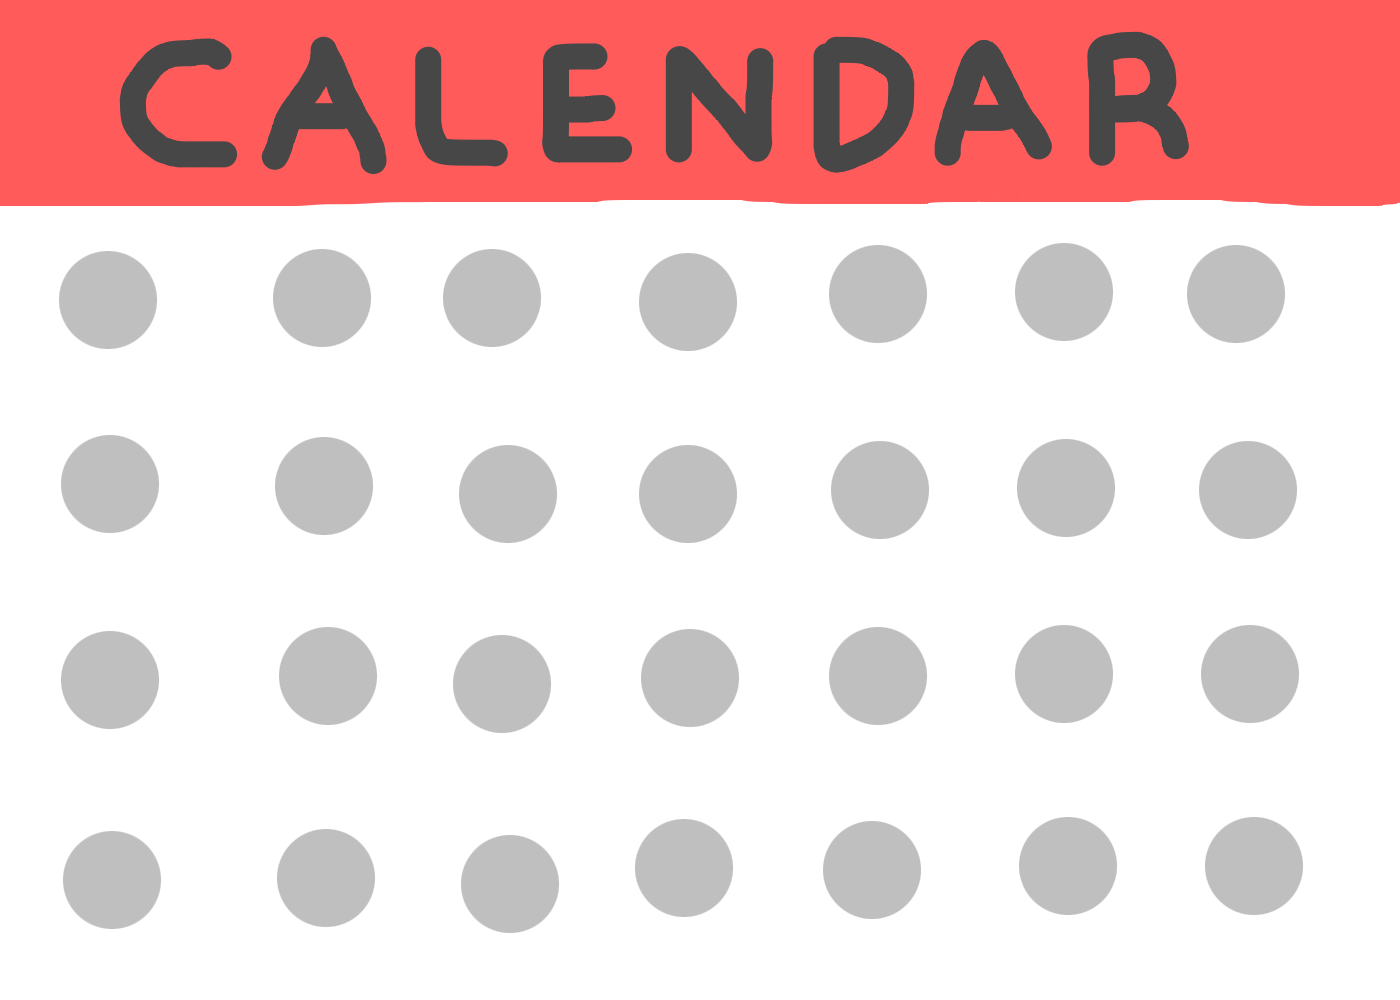
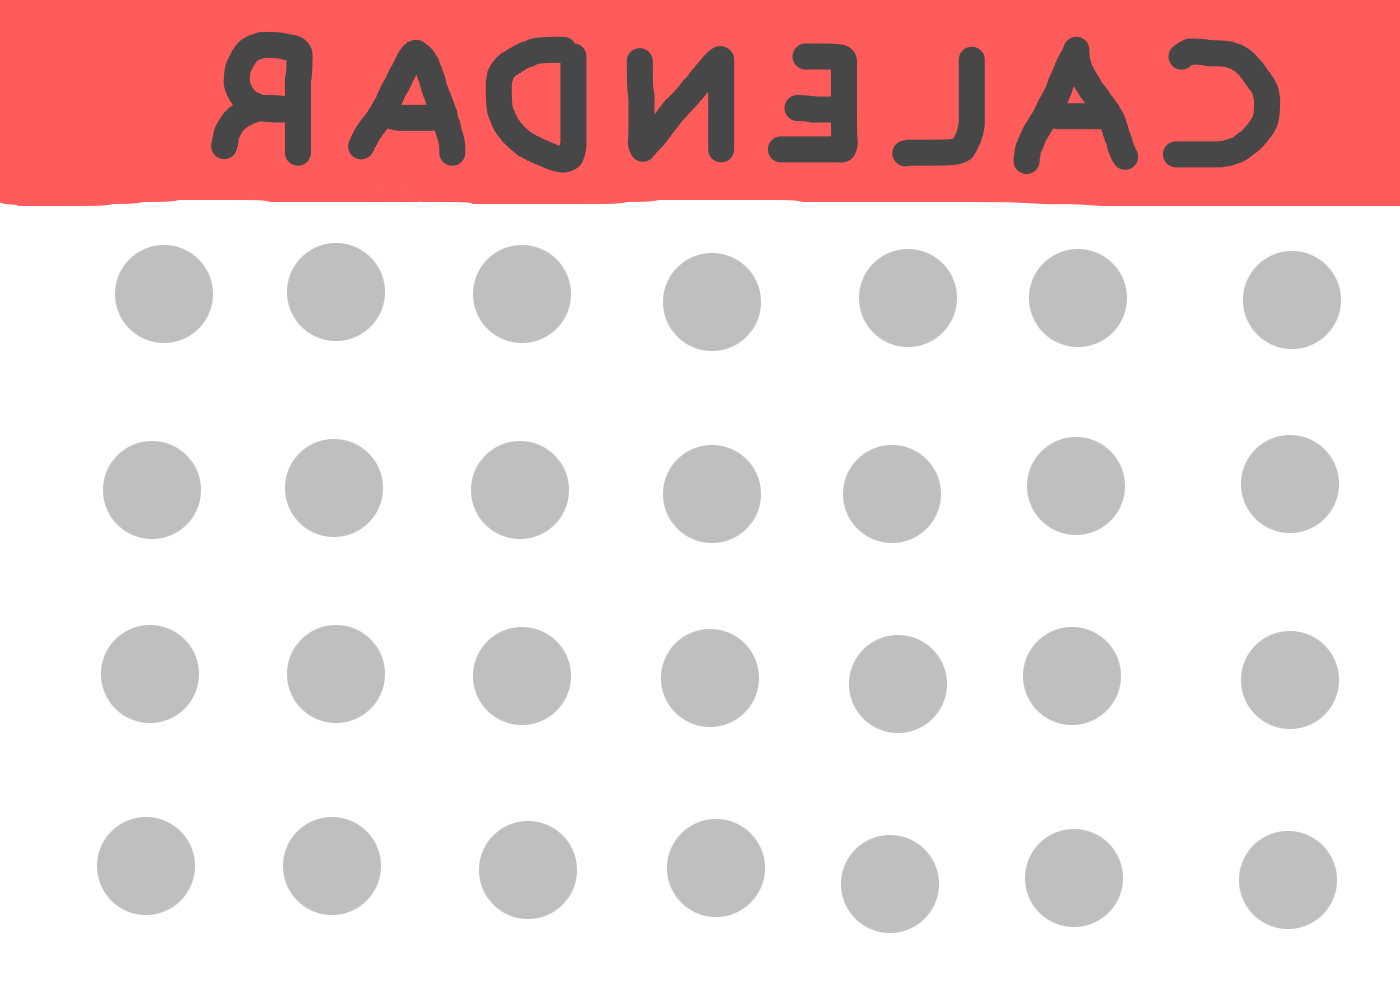
Improved office

diff --git a/levels/generators/office.py b/levels/generators/office.py
@@ -10,15 +10,30 @@ from levels.interactable import Interactable
 from levels.functions.imports import *
 from helper.transforms import connect
 
+def generate_chain(level: Level, positions: list[glm.vec3]) -> list[bsk.Node]:
+    positions = [glm.vec3(p) for p in positions]
+    nodes = []
+    for i in range(len(positions) - 1):
+        pos, sca, rot = connect(positions[i], positions[i + 1])
+        nodes.append(bsk.Node(
+            position = pos,
+            scale = sca,
+            rotation = rot,
+            material = level.game.materials['black']
+        ))
+    return nodes
+
 def office(game: Game) -> Level:
     # create basic layout for bedroom level
-    office = Level(game)
+    office = Level(game, 'office', glm.vec3(0, 0, 3))
     office.add(*rect_room(0, 0, 8, 8, 4, game.materials['dirty_carpet'], game.materials['bright_wood'], game.materials['bright_wood']))
     
     desk(office)
     puzzle(office)
     coffee_table(office)
     decor(office)
+    wires(office)
+    note(office)
     
     # TODO temporary
     mug = Interactable(office, bsk.Node(
@@ -266,10 +281,74 @@ def decor(office: Level) -> None:
     )
     
     poster = bsk.Node(
-        position = (0, 4, 7),
-        scale = (2.5, 1.5, 0.002),
+        position = (2, 4, 7),
+        scale = (1.25, 0.75, 0.002),
         rotation = glm.angleAxis(glm.pi() / 2, (0, 0, 1)),
         material = game.materials['hang_in_there']
     )
     
-    office.add(windows, cubicle, poster)
+    calendar = bsk.Node(
+        position = (3.5, 3, 7),
+        scale = (0.333, 0.5, 0.002),
+        rotation = glm.angleAxis(glm.pi() / 2, (0, 0, 1)),
+        material = game.materials['calendar']
+    )
+    
+    door = bsk.Node(
+        position = (0, 2.65, -7),
+        scale = glm.vec3(0.65),
+        rotation = glm.angleAxis(0, (0, 1, 0)),
+        mesh = game.meshes['fake_door'],
+        material = game.materials['fake_door']
+    )
+    
+    office.add(windows, cubicle, poster, door, calendar)
+    
+    # add bulb
+    office.add(bsk.Node(
+        position = (0, 4.9, 0),
+        scale = glm.vec3(0.1),
+        material = game.materials['bulb'],
+        mesh = game.meshes['bulb']
+    ))
+    
+    # chair
+    office.add(bsk.Node(
+        position = (1.1, 0.75, -1),
+        scale = glm.vec3(0.4),
+        rotation = glm.angleAxis(0.7, (0, 1, 0)),
+        mesh = game.meshes['office_chair'],
+        material = game.materials['black']
+    ))
+    
+def wires(office: Level) -> None:
+    chains = [
+        # computer
+        [(-2.65, 1.8, -1.25), (-2.65, 1.8, -1.62), (-2.65, 0.1, -1.62), (-2.65, 0.1, -2.3), (1.85, 0.1, -2.3), (1.85, 0.1, -1.8), (-0.5, 0.1, -1.8), (-0.5, 1.9, -1.8), (-0.5, 1.9, 0)],
+        # light
+        [(-2.65, 1.8, -1), (-2.45, 1.8, -1), (-2.45, 7, -1), (0, 7, -1), (0, 7, 0), (0, 5, 0)],
+        # coffee
+        [(-2.65, 1.8, -0.75), (-2.65, 1.8, 0.8)],
+    ]
+    
+    for chain in chains: office.add(generate_chain(office, chain))
+
+def note(level: Level) -> None:
+    game = level.game
+    engine = game.engine
+    
+    note = Interactable(level, bsk.Node(
+        position = glm.vec3(-0.3, 1.9, 1),
+        scale = (0.4, 0.01, 0.5),
+        rotation = glm.angleAxis(-glm.pi() / 2, (0, 1, 0)),
+        material = game.materials['paper'],
+        mesh = game.meshes['paper']
+    ))
+    
+    def p1(dt: float) -> None: 
+        bsk.draw.text(engine, 'page1', glm.vec2(engine.win_size) // 2)
+
+    pages = [p1]
+    note.active = book(note, pages)
+    
+    level.add(note)

diff --git a/game.py b/game.py
@@ -49,12 +49,11 @@ class Game():
         
         # level layout
         self.memory_handler = MemoryHandler(self)
+        # self.memory_handler['bedroom'] = bedroom(self)
         # self.memory_handler['art'] = art(self)
         # self.memory_handler['void'] = void(self)
         # self.memory_handler['boat'] = boat(self)
-        # self.memory_handler['office'] = office(self)
-        br = bedroom(self)
-        self.memory_handler['bedroom'] = br
+        self.memory_handler['office'] = office(self)
         
         # player
         self.player = Player(self)
@@ -89,6 +88,7 @@ class Game():
             'picture_frame' : bsk.Material(texture = images['uv_map.png']),
             'fortune_dresser' : bsk.Material(texture = images['fortune_dresser.png']),
             'fake_door' : bsk.Material(texture = images['fake_door.png']),
+            'paper' : bsk.Material(texture = images['paper.png']),
             
             # office
             'crt' : bsk.Material(texture = images['crt.png']),
@@ -98,6 +98,8 @@ class Game():
             'coffee_maker' : bsk.Material(texture = images['coffee_maker.png']),
             'battery' : bsk.Material(texture = images['battery.png']),
             'coffee_mug' : bsk.Material(texture = images['coffee_mug.png']),
+            'bulb' : bsk.Material(texture = images['bulb.png']),
+            'calendar' : bsk.Material(texture = images['calendar.png']),
             
             # ocean
             'boat' : bsk.Material(texture = images['boat.png']),
@@ -130,6 +132,7 @@ class Game():
             
             # standard
             'white' : bsk.Material(color = (220, 220, 220)),
+            'black' : bsk.Material(color = (20, 20, 20)),
             'red' : bsk.Material(color = (255, saturation, saturation)),
             'green' : bsk.Material(color = (saturation, 255, saturation)),
             'blue' : bsk.Material(color = (saturation, saturation, 255)),
@@ -200,14 +203,14 @@ class Game():
         self.ui.update(self.engine.delta_time)
         
         # render all levels
-        for level in self.adjacent_levels(self.current_level): level.render(self.fbos['kuwahara'])
+        for level in self.adjacent_levels(self.current_level): level.render(self.fbos['kuwahara']) # 
         
         self.ui_scene.update()
         self.overlay_scene.update()
         
         self.fbos['kuwahara'].render()
         
-        self.engine.update(render=False)
+        self.engine.update(render=True)
         
     def track_io_holds(self) -> None:
         """

diff --git a/player/player.py b/player/player.py
@@ -7,7 +7,6 @@ from helper.type_hints import Game, Level
 from player.held_items.held_item import HeldItem, PictureFrame
 from player.player_nodes import player_nodes
 from player.held_items.held_ui import HeldUI
-from levels.functions.imports import simulate_gravity_node
 from levels.classes.fish import FishTracker
 
 
@@ -75,12 +74,6 @@ class Player():
             self.previous_position = glm.vec3(position)
             return
         
-        # update player position based on collision
-        level: Level = self.game.memory_handler[collision.node.tags[1]]
-        
-        
-        print('teleporting', time.time())
-        
         # transform position/rotation relative to portal
         pc, pl = (self.game.entry_portal, self.game.exit_portal) if self.game.entry_portal == collision.node else (self.game.exit_portal, self.game.entry_portal)
         position = plane_mirror(self.previous_position, pc.position.data, collision.normal)
@@ -89,8 +82,6 @@ class Player():
         position = glm.vec3(mc[3])
         self.position = glm.vec3(position)
         self.body_node.rotation = self.body_node.rotation * glm.inverse(pc.rotation.data) * pl.rotation.data
-        
-        print(position)
         
         # update for next frame
         self.previous_position = glm.vec3(position)

diff --git a/levels/functions/place.py b/levels/functions/place.py
@@ -25,13 +25,11 @@ def place(interact: Interactable, position: glm.vec3=None, rotation: glm.quat=No
             game.player.item_r_ui.remove(player_item)
             placed = placed_interactable(interact, position, rotation, check_out_func, pull_out_func)
             interact.held_interact = placed
-            print('placing')
             level.add(placed) # NOTE this is not a child of the current interactable, change if needed
             
             if put_in_func: put_in_func(dt)
         else: 
             if check_out_func and not check_out_func(dt): return
-            print('takign back')
             take_back(dt, interact, check_out_func, pull_out_func)
         
     return func

diff --git a/images/images.py b/images/images.py
@@ -2,7 +2,7 @@ from basilisk import Image
 import os
 
 images = {
-    file_name : Image(f'./images/{file_name}') 
+    file_name : Image(f'./images/{file_name}', flip_y=False) 
     for file_name in os.listdir('./images') 
     if file_name.endswith(('.png', '.jpeg', '.jpg'))
 }

diff --git a/levels/generators/boat.py b/levels/generators/boat.py
@@ -13,7 +13,7 @@ from levels.classes.fish import FishTracker
 from images.images import images
 
 def boat(game: Game) -> Level:
-    level = Level(game)
+    level = Level(game, 'boat', glm.vec3(0, 0, 0))
     
     fishing(level)
     load_boat(level)
